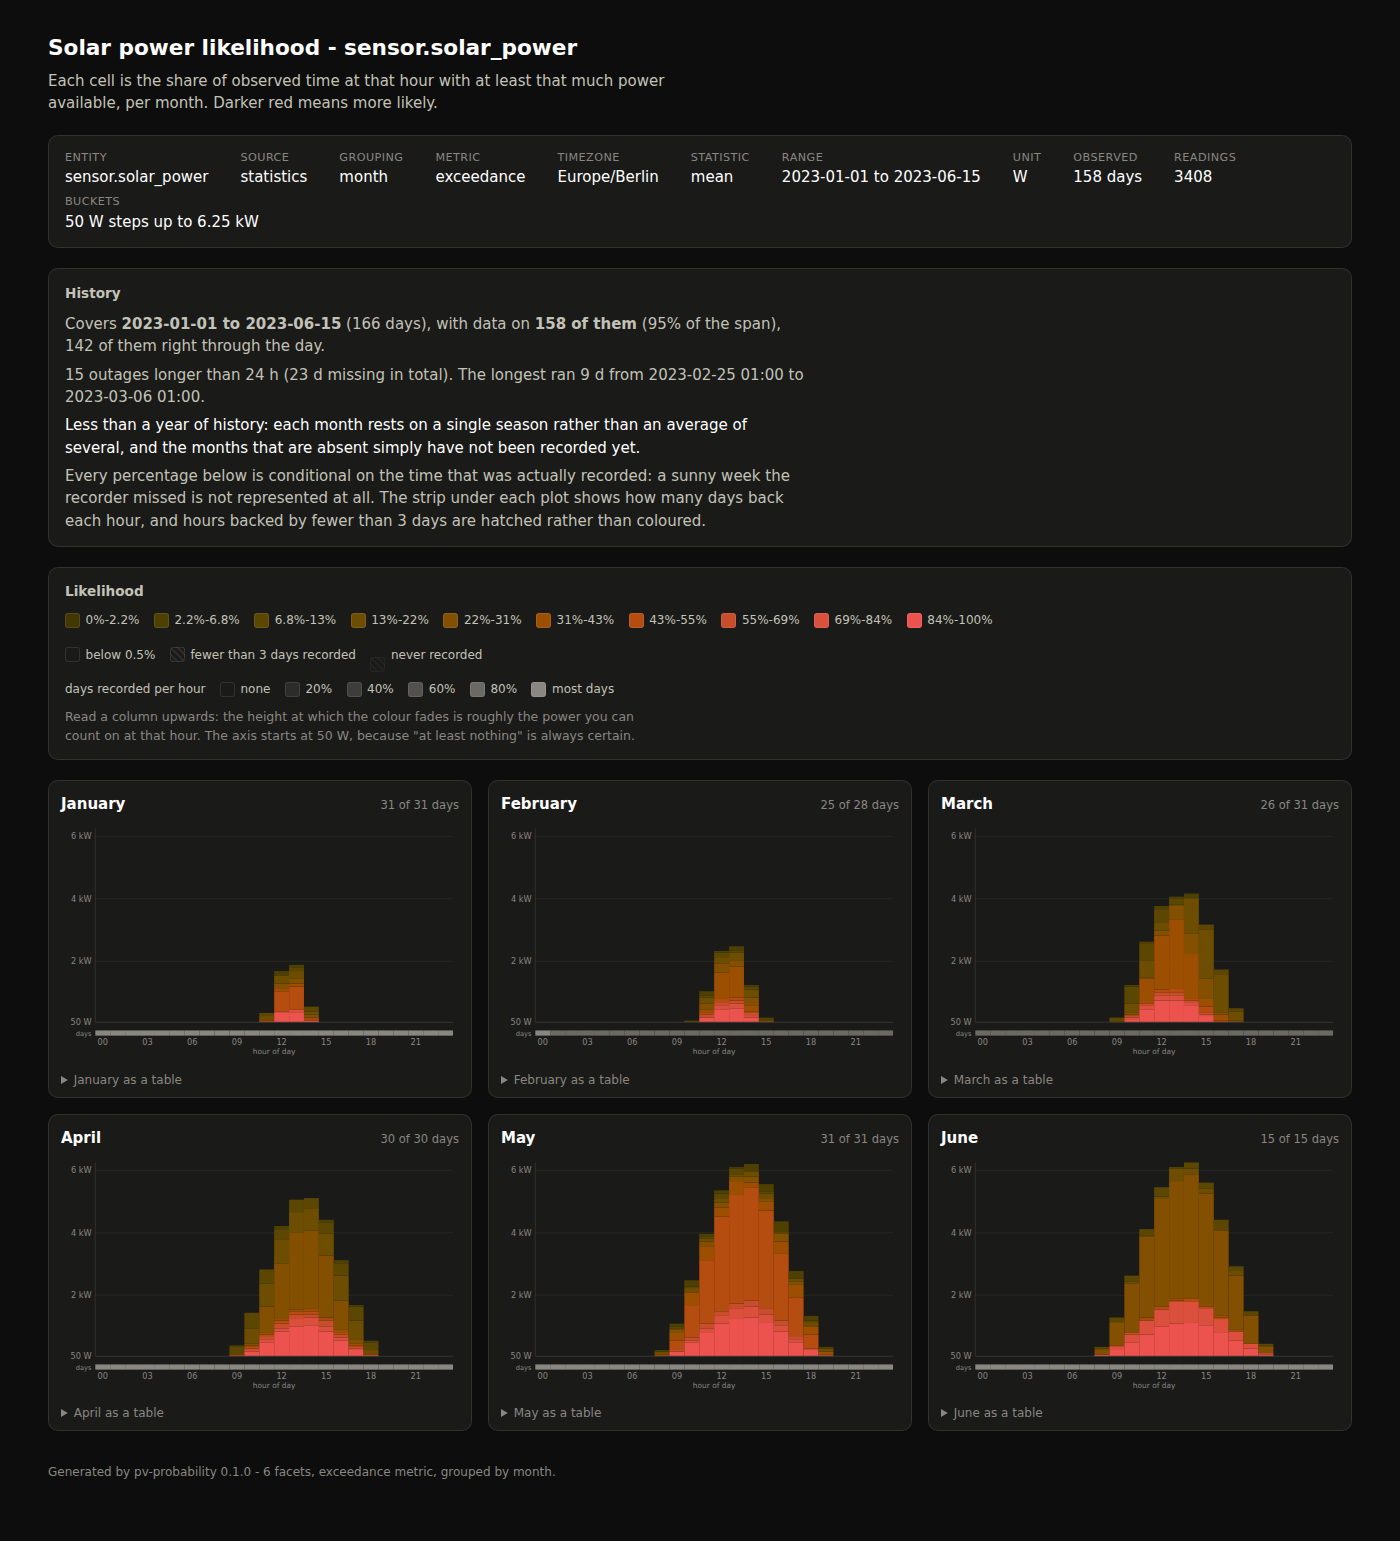
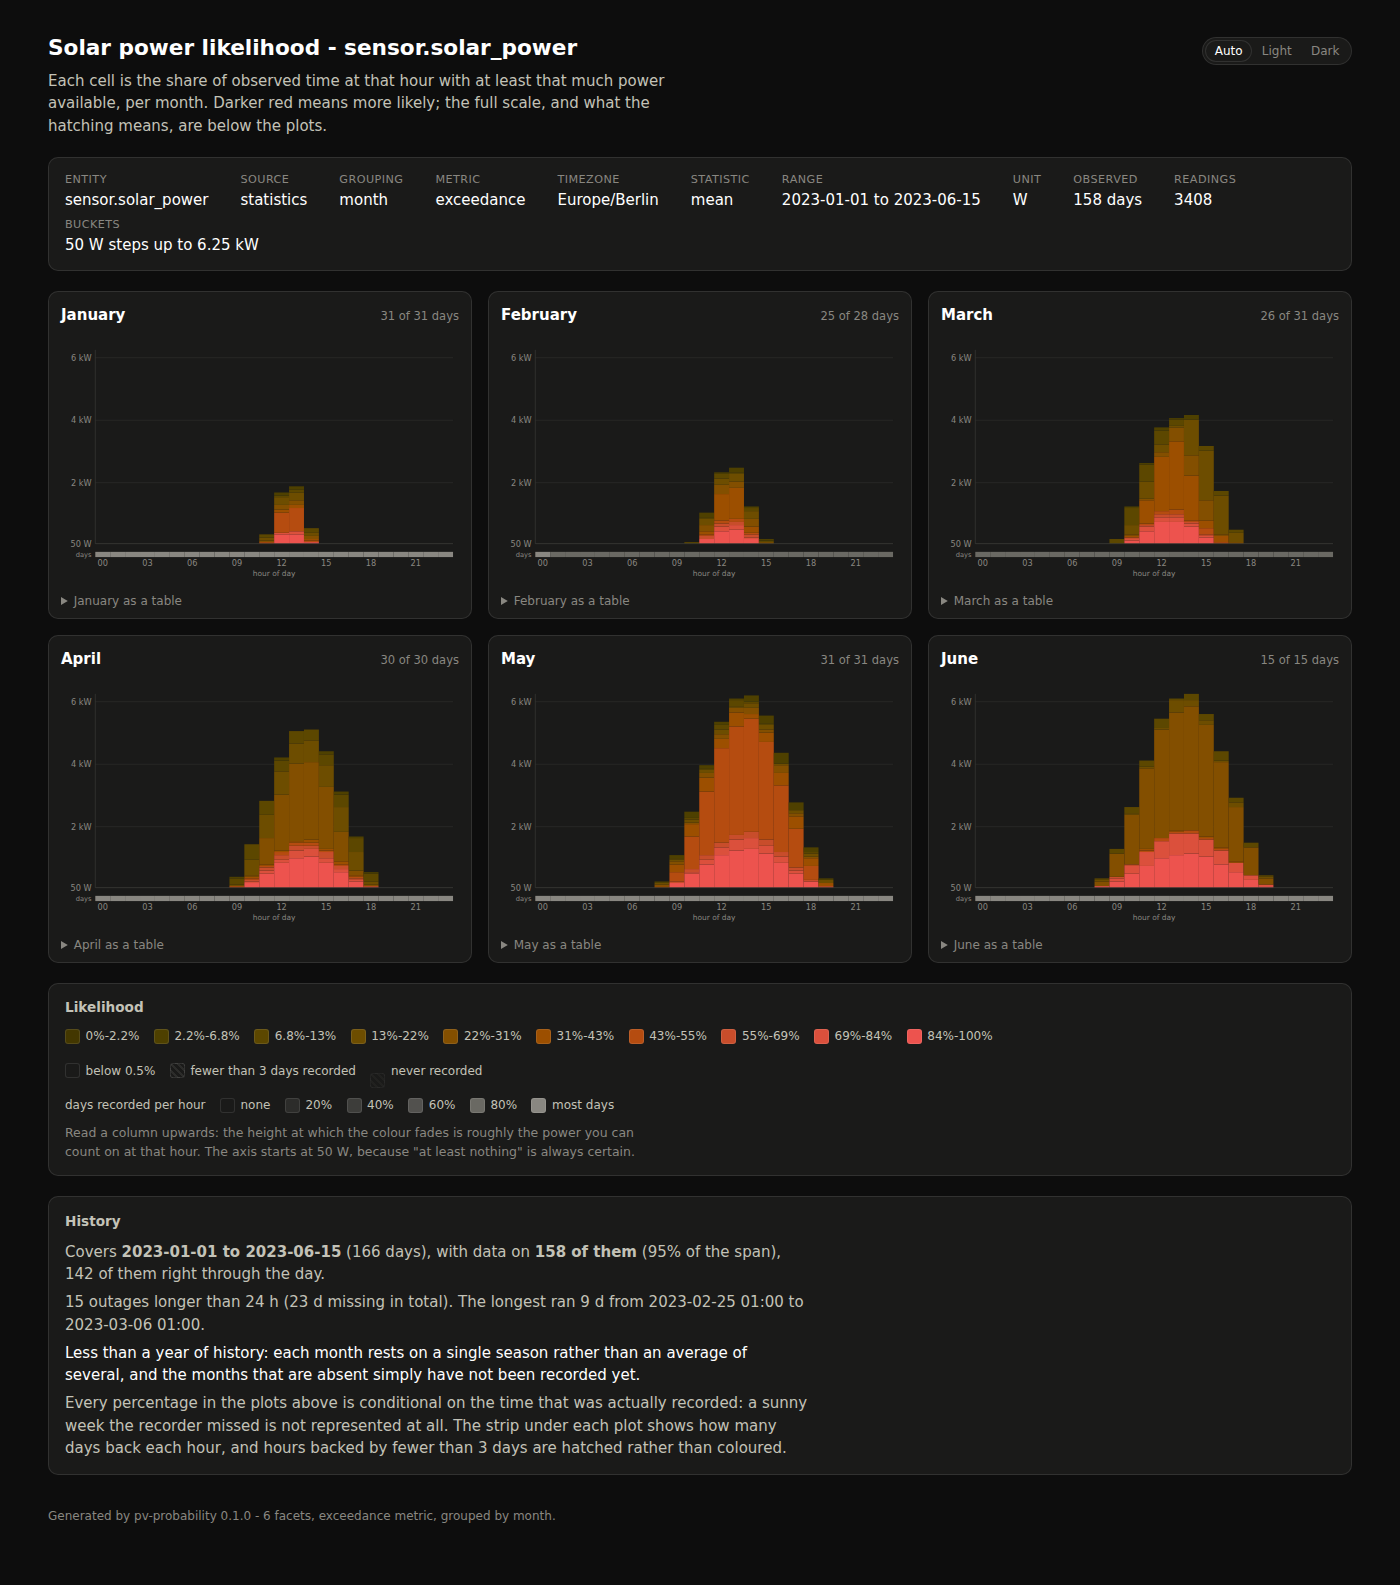
Put the flame graphs directly under the header
The report stacked its blocks in the order they were written: the
metadata card, the History block, the Likelihood key, and only then the
heatmaps the report exists for. On a six-facet report that is a screenful
of caveat and key before any data appears.

The order is now header, metadata, plots, Likelihood, History, footer.
The blocks were already independent strings, so this is a reordering of
four push_str calls rather than a restructure - the existing content
tests pass untouched, which is the evidence for that.

Two bits of wording follow the move: the lede says the scale and the
hatching are explained below the plots, so a first-time reader meeting a
hatched column knows where to look, and the History block no longer says
"every percentage below" when the percentages are now above it. A new
test pins the section order so a later edit cannot silently undo it, and
the README screenshots are regenerated.

Claude-Session: https://claude.ai/code/session_01EVS66KYo9kexs3Rm6jFV8F

diff --git a/src/render/html.rs b/src/render/html.rs
@@ -82,11 +82,10 @@ pub fn page(analysis: &Analysis, options: &PageOptions) -> String {
     );
 
     html.push_str(&metadata_list(analysis, options));
-    if let Some(coverage) = &options.coverage {
-        html.push_str(&coverage_section(coverage, analysis, options.tz));
-    }
-    html.push_str(&legend(analysis, options));
 
+    // The plots come first: they are what the report is for. The key and the caveats
+    // about the history follow, where they are still to hand without standing in front of
+    // the data.
     if analysis.facets.is_empty() {
         html.push_str(
             "<p class=\"empty\">No readings matched the selected entity and date range, \
@@ -98,6 +97,11 @@ pub fn page(analysis: &Analysis, options: &PageOptions) -> String {
             html.push_str(&facet);
         }
         html.push_str("</main>");
+    }
+
+    html.push_str(&legend(analysis, options));
+    if let Some(coverage) = &options.coverage {
+        html.push_str(&coverage_section(coverage, analysis, options.tz));
     }
 
     html.push_str(&footer(analysis));
@@ -154,12 +158,14 @@ fn lede(analysis: &Analysis) -> String {
     match analysis.metric {
         Metric::Exceedance => format!(
             "Each cell is the share of observed time at that hour with at least that much \
-             power available, per {}. Darker red means more likely.",
+             power available, per {}. Darker red means more likely; the full scale, and \
+             what the hatching means, are below the plots.",
             analysis.grouping
         ),
         Metric::Density => format!(
             "Each cell is the share of observed time at that hour spent inside that power \
-             band, per {}. Darker red means more likely.",
+             band, per {}. Darker red means more likely; the full scale, and what the \
+             hatching means, are below the plots.",
             analysis.grouping
         ),
     }
@@ -336,10 +342,10 @@ fn coverage_section(coverage: &Coverage, analysis: &Analysis, tz: Tz) -> String 
     if coverage.needs_caution() {
         let _ = write!(
             html,
-            "<p>Every percentage below is conditional on the time that was actually \
-             recorded: a sunny week the recorder missed is not represented at all. The \
-             strip under each plot shows how many days back each hour, and hours backed by \
-             fewer than {} days are hatched rather than coloured.</p>",
+            "<p>Every percentage in the plots above is conditional on the time that was \
+             actually recorded: a sunny week the recorder missed is not represented at \
+             all. The strip under each plot shows how many days back each hour, and hours \
+             backed by fewer than {} days are hatched rather than coloured.</p>",
             analysis.min_days
         );
     }
@@ -729,6 +735,20 @@ mod tests {
         analyse(&grid, metric, 1, &[])
     }
 
+    /// The same options, plus a History block, so the order test sees every section.
+    fn options_with_coverage() -> PageOptions {
+        let samples: Vec<Sample> = (0..24)
+            .map(|hour| {
+                let start = 1_718_928_000 + hour * 3_600;
+                Sample::new(start, start + 3_600, 500.0)
+            })
+            .collect();
+        PageOptions {
+            coverage: Coverage::describe(&samples, 1, 1, &[5], Grouping::Month, UTC, 24 * 3_600),
+            ..options()
+        }
+    }
+
     fn options() -> PageOptions {
         PageOptions {
             entity: "sensor.solar_power".to_string(),
@@ -818,6 +838,32 @@ mod tests {
         assert!(
             !html.contains(":has("),
             "the switch must not depend on :has(), which is too new to rely on"
+        );
+    }
+
+    #[test]
+    fn the_plots_come_before_the_key_and_the_caveats() {
+        let html = page(&analysis(Metric::Exceedance), &options_with_coverage());
+        let at = |needle: &str| {
+            html.find(needle)
+                .unwrap_or_else(|| panic!("missing {needle}"))
+        };
+
+        assert!(
+            at("class=\"meta\"") < at("class=\"facets\""),
+            "the plots follow the header"
+        );
+        assert!(
+            at("class=\"facets\"") < at("class=\"legend\""),
+            "the key follows the plots"
+        );
+        assert!(
+            at("class=\"legend\"") < at("class=\"coverage-summary\""),
+            "the history is last"
+        );
+        assert!(
+            at("class=\"coverage-summary\"") < at("class=\"page-footer\""),
+            "the footer stays at the bottom"
         );
     }
 

diff --git a/tests/end_to_end.rs b/tests/end_to_end.rs
@@ -492,6 +492,10 @@ fn the_report_tells_the_reader_what_is_missing() {
         "the partial-history caution is shown"
     );
     assert!(html.contains("conditional on the time that was actually recorded"));
+    // The plots come before the key and the history that qualify them.
+    let at = |needle: &str| html.find(needle).expect("section present");
+    assert!(at("class=\"facets\"") < at("class=\"legend\""));
+    assert!(at("class=\"legend\"") < at("class=\"coverage-summary\""));
     // One coverage strip cell per hour of every facet.
     assert_eq!(
         html.matches("<rect class=\"cov").count(),

diff --git a/README.md b/README.md
@@ -23,9 +23,9 @@ and carries a table view of the same numbers under each plot.
 ![The same report in the dark theme](docs/example-dark.png)
 
 *(The screenshots come from the synthetic `spotty` demo database described below - five
-months of history with outages in it - not from real production data. The "History" block
-and the grey strip under each plot are what that partial history looks like; see
-[Partial history and outages](#partial-history-and-outages).)*
+months of history with outages in it - not from real production data. The grey strip under
+each plot and the "History" block at the foot of the page are what that partial history
+looks like; see [Partial history and outages](#partial-history-and-outages).)*
 
 ## Quick start
 
